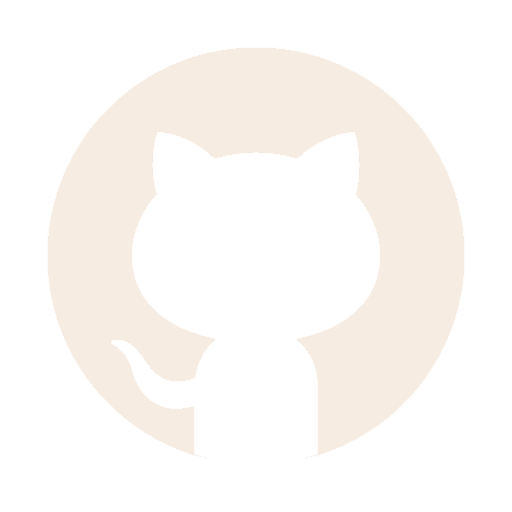
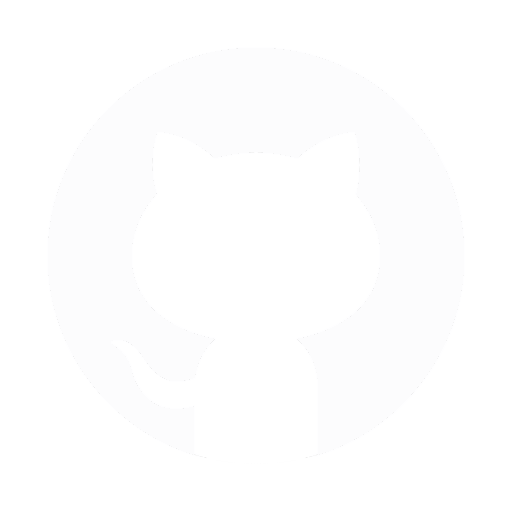
updated colour pallette, made css changes for more complex design

Changed region(s): [[0.0938, 0.0938, 0.9062, 0.9062]]

diff --git a/willquinn/src/routes/projects.js b/willquinn/src/routes/projects.js
@@ -17,13 +17,15 @@ import Footer from './shared/footer';
 
 function Projects() {
 const Item = styled(Card)(() => ({
-  boxShadow: "5px 5px 15px 5px rgba(0,0,0,0.4)"
+  boxShadow: "none",
+  border: "none",
+  borderRadius: 0
 }));
   return (
     <div className="projects">
       <div className="animatedGradient">
       <NavBar />
-      <Typography className="pageHeading" variant="h1" component="h1" color="#f0f0e7"
+      <Typography className="pageHeading" variant="h1" component="h1" color="#361aea"
       sx={{ 
       marginTop: "5%",
       marginBottom: "5%"}}>
@@ -33,17 +35,18 @@ const Item = styled(Card)(() => ({
           <Grid container rowSpacing={1} columnSpacing={{ xs: 1, sm: 2, md: 3 }}>
             <Grid item xs={6}>
               <Item sx={{ 
-                margin: "2%", bgcolor: "#f0f0e7"}}>
+                margin: "2%", bgcolor: "#fcfcfd"}}>
                 <Card sx={{ 
                   maxWidth: "100%", 
-                  bgcolor: "#f0f0e7",
+                  bgcolor: "#fcfcfd",
                   }}>
                 <CardMedia sx={{ 
                   width: "95%", 
                   margin: "2%", 
                   marginLeft: "auto", 
                   marginRight: "auto",
-                  border: "5px solid #119c8c"}}
+                  padding: "1%",
+                  borderLeft: "5px solid #361aea",}}
                   component="img"
                   alt="Mapuche School of Arts and Crafts website"
                   image={mapuche}
@@ -51,23 +54,24 @@ const Item = styled(Card)(() => ({
                   className="mapucheCard"
                 />
                 <CardContent sx={{ 
-                  bgcolor: "#f0f0e7",
-                  color: "#119c8c"}}>
+                  bgcolor: "#fcfcfd",
+                  color: "#361aea"}}>
                   <Typography className = "typographyHeading" gutterBottom variant="h5" component="div">
                     The Mapuche School of Arts and Crafts
                   </Typography>
-                  <Typography className = "typographyBody" variant="body2" color="#393c3c">
+                  <Typography className = "typographyBody" variant="body2" color="#361aea">
                     The Mapuche School of Arts and Crafts website was made for international clients based in southern Chile with the project being facilitated through
                     Auckand University of Technology. I and three other students created and oversaw the development of the website. Using agile methodologies, we
                     spearheaded the development of the website from the ground up. The website was built using the Material-UI framework and React.js.
                   </Typography>
                 </CardContent>
                 <CardActions sx={{ 
-                  bgcolor: "#f0f0e7", 
-                  color: "#119c8c", 
-                  alignItems: "center"}}>
-                  <Button sx={{ color: "#f0f0e7", bgcolor: "#119c8c", marginLeft: "27%"}} className = "button" size="small" href='https://mapuche-art.web.app/'>View Website</Button>
-                  <Button sx={{ color: "#f0f0e7", bgcolor: "#119c8c", marginLeft: "27%"}} className = "button" size="small" href='https://github.com/maxventer00/mapuche-art-school'>View Repository</Button>
+                  bgcolor: "#fcfcfd", 
+                  color: "#361aea",
+                  border: "none", 
+                  borderRadius: "none"}}>
+                  <Button sx={{ color: "#fcfcfd", bgcolor: "#361aea", marginLeft: "27%"}} className = "button" size="small" href='https://mapuche-art.web.app/'>View Website</Button>
+                  <Button sx={{ color: "#fcfcfd", bgcolor: "#361aea", marginLeft: "27%"}} className = "button" size="small" href='https://github.com/maxventer00/mapuche-art-school'>View Repository</Button>
                 </CardActions>
               </Card>
               </Item>
@@ -75,16 +79,17 @@ const Item = styled(Card)(() => ({
             <Grid item xs={6}>
               <Item sx={{ 
               margin: "2%",
-              bgcolor: "#f0f0e7"}}>
+              bgcolor: "#fcfcfd"}}>
                 <Card ClassName = "card" sx={{ 
                 maxWidth: "100%",
-                bgcolor: "#f0f0e7"}}>
+                bgcolor: "#fcfcfd"}}>
                 <CardMedia sx={{
                   width: "95%",
                   margin: "2%",
                   marginLeft: "auto",
                   marginRight: "auto",
-                  border: "5px solid #119c8c"}}
+                  padding: "1%",
+                  borderLeft: "5px solid #361aea",}}
                   component="img"
                   alt="Software Practice Empirical Evidence Database"
                   image={speed}
@@ -92,22 +97,25 @@ const Item = styled(Card)(() => ({
                   className="mapucheCard"
                 />
                 <CardContent sx={{ 
-                  bgcolor: "#f0f0e7",
-                  color: "#119c8c"}}>
+                  bgcolor: "#fcfcfd",
+                  color: "#361aea",
+                  borderRadius: "none"}}>
                   <Typography className = "typographyHeading" gutterBottom variant="h5" component="div">
                     Software Practice Empirical Evidence Database
                   </Typography>
-                  <Typography className = "typographyBody" variant="body2" color="#393c3c">
+                  <Typography className = "typographyBody" variant="body2" color="#361aea">
                     The Software Practice Empirical Evidence Database or SPEED was a project made at Auckand University of Technology with me and two other students. The goal of the project was
                     to create a MERN stack website that focused around the use of databases and creating different user states to be able to have access to different parts of the website and to manipulate
                     data based on user states. 
                   </Typography>
                 </CardContent>
                 <CardActions sx={{ 
-                bgcolor: "#f0f0e7",
-                color: "#119c8c"}}>
-                  <Button sx={{ color: "#f0f0e7", bgcolor: "#119c8c", marginLeft: "30%"}} className = "button" size="small" href='https://speed-cise-team7.herokuapp.com/'>View Website</Button>
-                  <Button sx={{ color: "#f0f0e7", bgcolor: "#119c8c", marginLeft: "30%"}} className = "button" size="small" href='https://github.com/Will-Quinn/SPEED_Assgt1B'>View Repository</Button>
+                bgcolor: "#fcfcfd",
+                color: "#361aea",
+                border: "none",
+                borderRadius: "none"}}>
+                  <Button sx={{ color: "#fcfcfd", bgcolor: "#361aea", marginLeft: "30%"}} className = "button" size="small" href='https://speed-cise-team7.herokuapp.com/'>View Website</Button>
+                  <Button sx={{ color: "#fcfcfd", bgcolor: "#361aea", marginLeft: "30%"}} className = "button" size="small" href='https://github.com/Will-Quinn/SPEED_Assgt1B'>View Repository</Button>
                 </CardActions>
               </Card>
               </Item>

diff --git a/willquinn/src/index.css b/willquinn/src/index.css
@@ -1,12 +1,13 @@
 @import url('https://fonts.googleapis.com/css2?family=Slabo+27px&family=Ultra&display=swap');
 
 /* CSS
-#393c3c dark background
-#f0f0e7 white text
-#119c8c object backgrounds and special text accents
+#d4e5f9 background colour
+#fcfcfd to be used for objects, placing text on etc.
+#361aea main text colour
+#7615f9 accents colour
 */
 html{
-  background-color: #393c3c;
+  background-color: #d4e5f9;
 }
 html::-webkit-scrollbar {
     display: none;
@@ -18,7 +19,6 @@ margin: 0;
 .typographyHeading{
 font-family: 'Ultra', serif!important;
 font-size: 1.8rem!important;
-color: "#119c8c"!important;
 text-align: center;
 }
 .typographyBody{
@@ -30,10 +30,11 @@ text-align: center;
 .button{
 font-family: 'Ultra', serif!important;
 font-size: 1rem!important;
+border-radius: 0!important;
 }
 .button:hover{
-background-color: #f0f0e7!important;
-color: #119c8c!important;
+background-color: #7615f9!important;
+color: #fcfcfd!important;
 }
 .pageHeading{
 font-family: 'Ultra', serif!important;
@@ -51,11 +52,11 @@ margin-left: 1%;
 font-family: 'Ultra', serif!important;
 font-size: 1.5rem;
 margin-inline: 3%;
-color: #f0f0e7!important;
+color: #361aea!important;
 transition: background-color 250ms cubic-bezier(0.4, 0, 0.2, 1) 0ms,box-shadow 250ms cubic-bezier(0.4, 0, 0.2, 1) 0ms,border-color 250ms cubic-bezier(0.4, 0, 0.2, 1) 0ms,color 250ms cubic-bezier(0.4, 0, 0.2, 1) 0ms;
 }
 .barLink:hover{
-color: #119c8c!important;
+color: #7615f9!important;
 -webkit-transition: background-color 250ms cubic-bezier(0.4, 0, 0.2, 1) 0ms,box-shadow 250ms cubic-bezier(0.4, 0, 0.2, 1) 0ms,border-color 250ms cubic-bezier(0.4, 0, 0.2, 1) 0ms,color 250ms cubic-bezier(0.4, 0, 0.2, 1) 0ms;
 }
 .navLinks{
@@ -66,5 +67,5 @@ font-family: 'Slabo 27px', serif!important;
 font-size: 2rem;
 height: max-content;
 width: max-content;
-color: #f0f0e7;
+color: #361aea;
 }

diff --git a/willquinn/src/routes/shared/footer.js b/willquinn/src/routes/shared/footer.js
@@ -9,7 +9,7 @@ import Typography from '@mui/material/Typography';
 //components and functions here
 function Footer() {
   return (
-      <BottomNavigation className="footer" sx={{ background: "#119c8c", height: "0.5%", marginTop: "10%"}} position="absolute">
+      <BottomNavigation className="footer" sx={{ background: "#361aea", height: "0.5%", marginTop: "10%"}} position="absolute">
         <Link className = "svg"  href={"https://www.linkedin.com/in/william-quinn-03694a218/"}>
           <Avatar sx={{ width: "4rem", height: "4rem"}}
             alt="linkedin"
@@ -17,7 +17,7 @@ function Footer() {
             variant="square"
           />
         </Link>
-        <Typography sx={{marginTop:"0.8%",fontSize: "1.4rem",color: "#f0f0e7"}} className = "author" variant="body2" color="#393c3c">
+        <Typography sx={{marginTop:"0.8%",fontSize: "1.4rem",color: "#fcfcfd"}} className = "author" variant="body2">
             William Quinn 2022
         </Typography>
         <Link className = "svg" href={"https://github.com/Will-Quinn"}>

diff --git a/willquinn/src/routes/shared/NavBar.js b/willquinn/src/routes/shared/NavBar.js
@@ -4,14 +4,13 @@ import { AppBar, Avatar, Link, Toolbar} from "@mui/material";
 import logo from "../../assets/logo.png";
 import { NavLink} from "react-router-dom";
 
-
 //components and functions here
 function NavBar() {
   return (
     <AppBar sx={{ background: 0, color: 0, boxShadow: 0 }} position="absolute">
       <Toolbar className="toolbar">
         <Link href={"/"}>
-          <Avatar sx={{ width: "5rem", height: "5rem", margin: "0.5rem"}}
+          <Avatar sx={{ width: "5rem", height: "5rem", margin: "0.5rem",padding: "1%",borderLeft: "5px solid #361aea"}}
             className="logo"
             alt="logo"
             src={logo}
